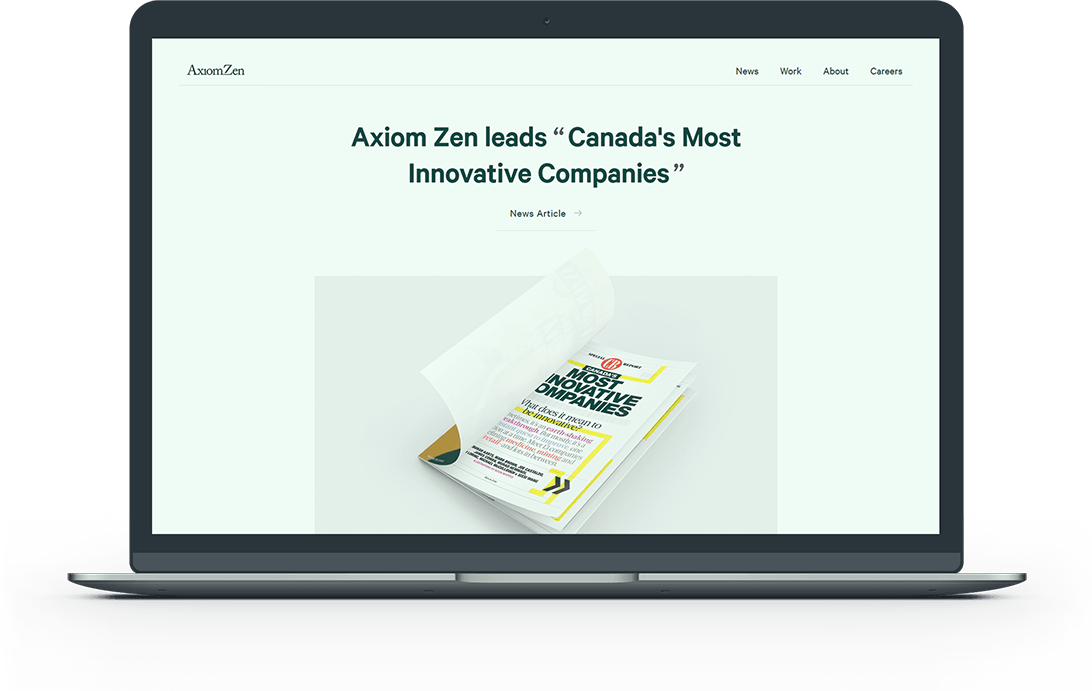
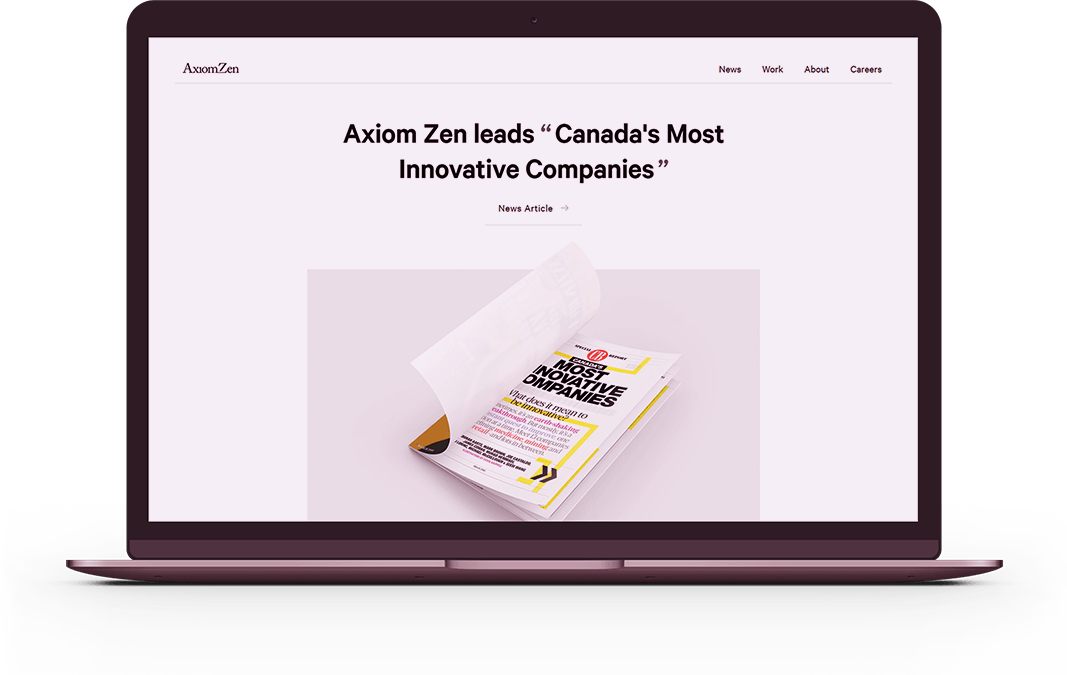
change style

diff --git a/staging/css/main.css b/staging/css/main.css
@@ -2,18 +2,21 @@
 
 .Pattern {
   position: fixed;
-  z-index: 1;
+  z-index: -99;
   height: 100%;
   width: 41.5rem;
   top: 0;
   left: 50%;
   margin-left: -20.75rem;
-  opacity: .05;
+  /*background: -webkit-linear-gradient(#292058, #a10263, #e57c37);  For Safari 5.1 to 6.0
+  background: -o-linear-gradient(#292058, #a10263, #e57c37); For Opera 11.1 to 12.0
+  background: -moz-linear-gradient(#292058, #a10263, #d85165);  For Firefox 3.6 to 15*/
+  background: linear-gradient(#350759, #3e0660);
 }
 @media screen and (min-width: 410px) {
   .Pattern {
-    width: 55rem;
-    margin-left: -27.5rem;
+    width: 76rem;
+    margin-left: -38rem;
   }
 }
 @media screen and (min-width: 680px) {
@@ -41,6 +44,7 @@
   display: flex;
   margin: 0 auto;
   justify-content: space-around;
+  opacity: .05;
 }
 
 .Pattern-line {
@@ -200,18 +204,14 @@
   flex-wrap: wrap;
   position: relative;
   width: 100%;
-  margin-bottom: 4.5rem;
-}
-@media screen and (min-width: 410px) {
-  .Works-preview {
-    margin-bottom: 6rem;
-  }
+  margin-bottom: 6rem;
 }
 @media screen and (min-width: 680px) {
   .Works-preview {
     display: flex;
     align-items: center;
     flex-direction: row-reverse;
+    margin-bottom: 7.5rem;
   }
 }
 @media screen and (min-width: 960px) {
@@ -227,13 +227,13 @@
 .Works-description {
   display: block;
   width: 100%;
-  margin-bottom: 2rem
+  margin-bottom: 2.25rem
 }
 @media screen and (min-width: 680px) {
   .Works-description {
     width: 57%;
+    padding-left: 14%;
     margin-bottom: 0;
-    text-align: right;
   }
 }
 @media screen and (min-width: 960px) {
@@ -248,7 +248,7 @@
     left: 0;
   }
   .Works-description--tl {
-    top: 56%;
+    top: 54%;
     left: 43%;
   }
   .Works-description--plume {
@@ -256,30 +256,41 @@
     top: 48%;
   }
   .Works-description--routific {
-    top: 46%;
+    top: 54%;
     left: 71%;
+  }
+  .Works-description--ht {
+    top: 36%
   }
 }
 
 .Works-title {
-  margin-bottom: .3rem;
+  margin-bottom: .2rem;
   text-shadow: 0 0 4rem rgba(15,2,36,.5);
   font-size: 3.2rem;
 }
 @media screen and (min-width: 680px) {
   .Works-title {
-    font-size: 4.1rem;
+    font-size: 3.8rem;
     padding: 0;
   }
 }
 @media screen and (min-width: 960px) {
   .Works-title {
-    font-size: 5.9rem;
+    font-size: 6.2rem;
+  }
+  .Works-title-sm {
+    font-size: 5rem;
+    padding: 0;
   }
 }
 @media screen and (min-width: 1320px) {
   .Works-title {
-    font-size: 6.6rem;
+    font-size: 7.3rem;
+  }
+  .Works-title-sm {
+    font-size: 5.8rem;
+    padding: 0;
   }
 }
 
@@ -300,12 +311,12 @@
   .Works-subtitle {
     margin: 0;
     opacity: .95;
-    font-size: 2.4rem
+    font-size: 2.6rem
   }
 }
 @media screen and (min-width: 1320px) {
   .Works-subtitle {
-    font-size: 2.8rem
+    font-size: 3rem
   }
 }
 
@@ -316,12 +327,10 @@
   margin: 0 auto;
   padding-top: 73%;
   cursor: pointer;
-  box-shadow: 0 0 8rem rgba(0,0,0,.5);
-  transition: box-shadow 0.3s;
 }
 .Works-frame--az {
-  background-color: #30c3a6;
-  color: #30c3a6;
+  background-color: #d43772;
+  color: #d43772;
 }
 .Works-frame--tl {
   background-color: #319dcf;
@@ -339,8 +348,17 @@
   background-color: #8334b0;
   color: #8334b0;
 }
-.Works-frame:hover {
-  box-shadow: 0 0 10rem rgba(0,0,0,.9);
+.Works-frame::after {
+  display: block;
+  content: '';
+  position: absolute;
+  bottom: -12.5%;
+  left: -16%;
+  width: 132%;
+  height: 100%;
+  background: url('../img/shadow-wide.png') bottom center no-repeat;
+  background-size: contain;
+  z-index: -1;
 }
 @media screen and (min-width: 680px) {
   .Works-frame {
@@ -348,6 +366,9 @@
     max-width: 43%;
     margin: 0;
     padding-top: 43%;
+  }
+  .Works-frame::after {
+    bottom: -9.5%;
   }
 }
 @media screen and (min-width: 960px) {
@@ -371,6 +392,12 @@
   }
   .Works-frame--routific {
     margin-right: 14.5%;
+  }
+  .Works-frame::after {
+    bottom: -7.4%;
+  }
+  .Works-frame--az::after, .Works-frame--plume::after, .Works-frame--ht::after {
+    bottom: -13%;
   }
 }
 
@@ -424,51 +451,61 @@
 }
 @media screen and (min-width: 960px) {
   .Works-img--az {
-    background-size: 98% auto;
+    background-size: 96% auto;
   }
   .Works-img--tl {
-    background-size: 95% auto;
+    background-size: 77% auto;
     background-position: center;
-    top: 1.5rem;
-    height: 118%;
+    height: 100%;
   }
   .Works-img--plume {
-    background-size: 100% auto;
-    height: 103%
-  }
-  .Works-img--routific {
-    background-size: 108% auto;
-    height: 102%;
+    background-size: 92% auto;
+    background-position: 4rem 2rem;
+    height: 100%
   }
   .Works-img--ht {
-    background-size: 85% auto;
-    margin-bottom: 2.5rem;
+    background-size: 75% auto;
+    margin-bottom: 1rem;
   }
 }
 
 .Works-label {
-  position: absolute;
-  left: -5.8rem;
-  top: 43%;
-  margin: auto;
-  font-size: 1.6rem;
-  letter-spacing: .5rem;
-  opacity: .66;
-  transform: rotate(-90deg);
+  display: none;
+  }
+@media screen and (min-width: 680px) {
+  .Works-label {
+    display: block;
+    position: absolute;
+    left: -5.8rem;
+    top: 43%;
+    margin: auto;
+    font-size: 1.6rem;
+    letter-spacing: .5rem;
+    opacity: .66;
+    transform: rotate(-90deg);
+  }
 }
 @media screen and (min-width: 960px) {
   .Works-label {
     top: 45%;
     font-size: 1.8rem;
-    left: -6.5rem;
+    left: -6.8rem;
   }
-  .Works-label--az, .Works-label--ht {
+  .Works-label--az, .Works-label--ht, .Works-label--tl {
     left:  auto;
-    right: -6.5rem;
+    right: -6.8rem;
     transform: rotate(90deg);
   }
-  .Works-label--tl {
-    top: 30%;
+}
+@media screen and (min-width: 1320px) {
+  .Works-label {
+    font-size: 2rem;
+    left: -7.6rem;
+  }
+  .Works-label--az, .Works-label--ht, .Works-label--tl {
+    left:  auto;
+    right: -7.6rem;
+    transform: rotate(90deg);
   }
 }
 

diff --git a/staging/index.html b/staging/index.html
@@ -117,7 +117,7 @@
 
     <div class="Works-preview Works-preview--ht">
       <a class="Works-description Works-description--ht" href="./hammer-tusk">
-        <h1 class="Works-title">
+        <h1 class="Works-title Works-title-sm">
           Hammer &amp; Tusk
         </h1>
         <h2 class="Works-subtitle">

diff --git a/staging/css/root.css b/staging/css/root.css
@@ -10,14 +10,12 @@ body {
   font-size: 1.6rem;
   font-weight: normal;
   -webkit-font-smoothing: antialiased;
-  background: #290d57;
   color: white;
 }
 
 *, *::before, *::after {
   -moz-box-sizing: border-box;
   box-sizing: border-box;
-  z-index: 2;
 }
 
 img {
